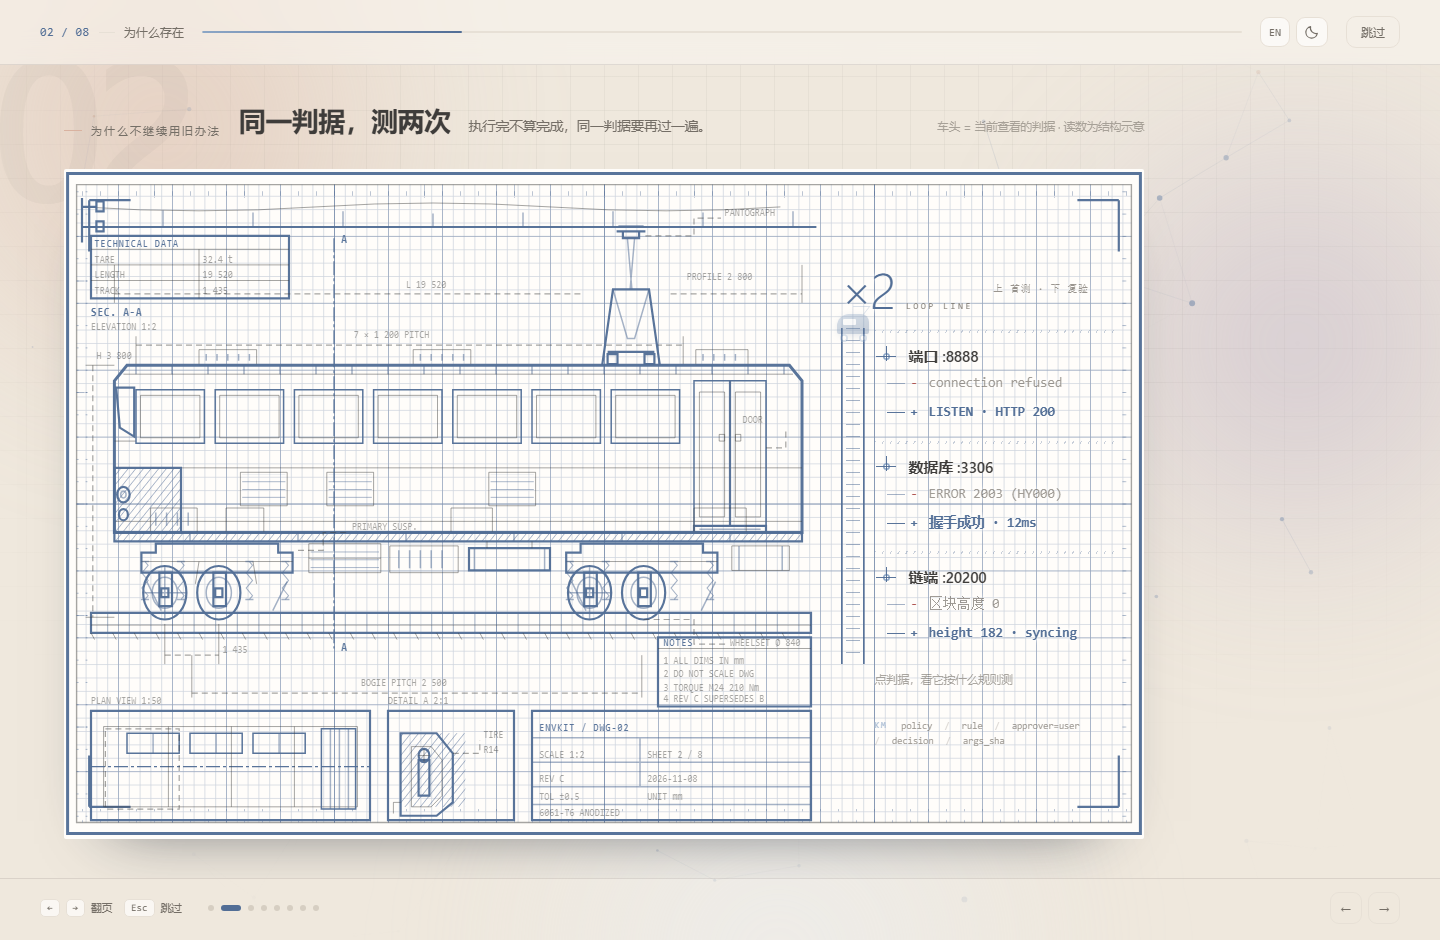
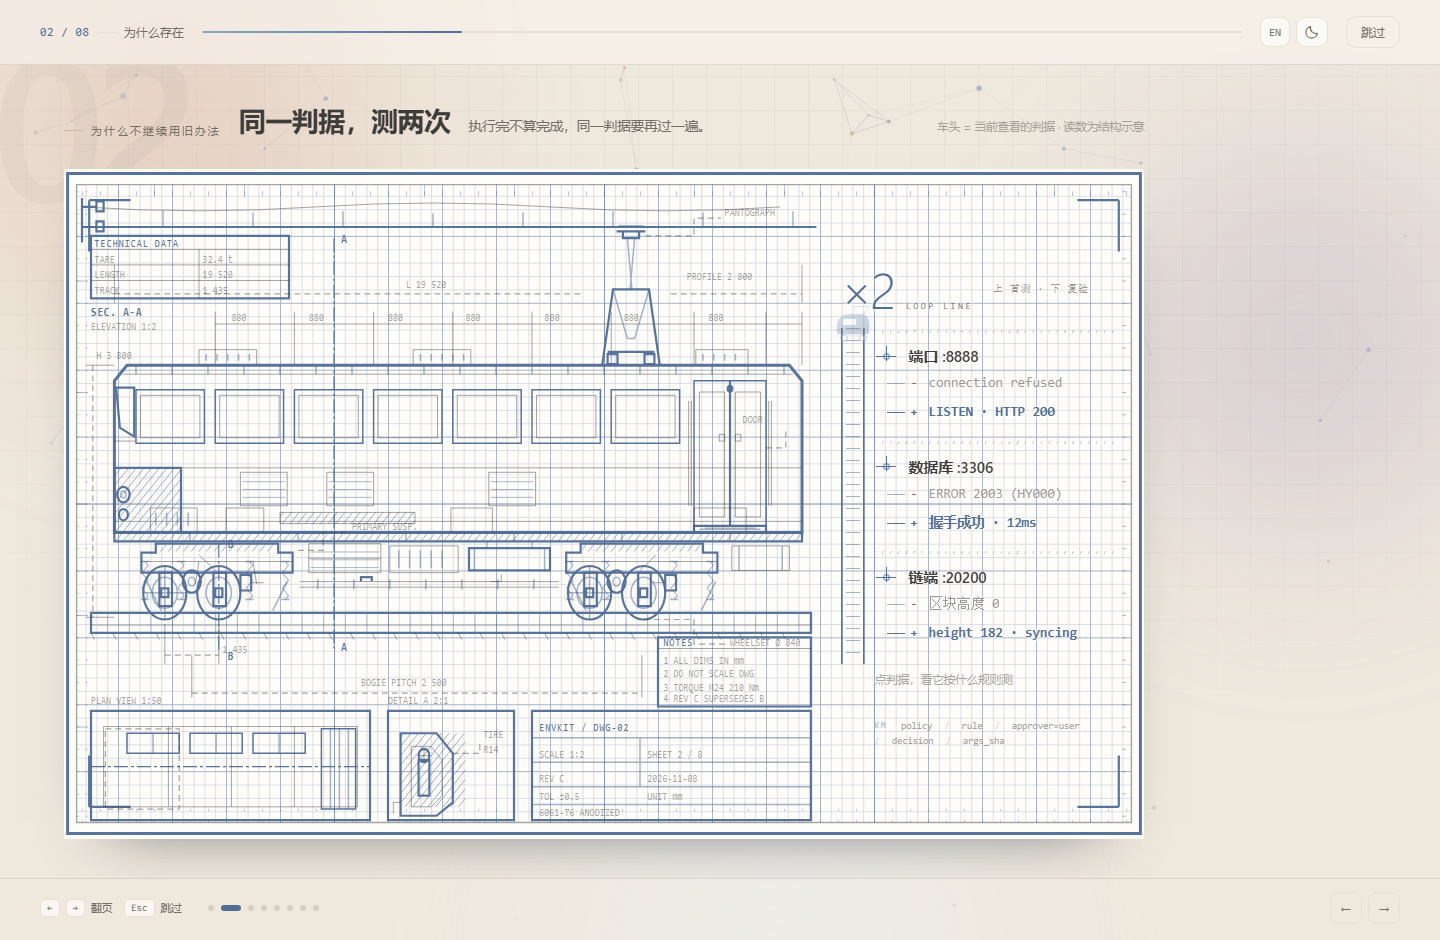
feat(onboard): 02 屏加细节层，并让图纸在进屏时被"画"出来
- 细节层：连续标注链 8×880（刻度一路拉到屋面，不悬空）、客室门双侧扶手/门灯/
  门槛踏面、裙板铸铁剖面、车下制动主管与电缆槽（配管卡、三通）、转向架齿轮箱/
  制动夹钳/牵引拉杆/架体断面、新增 B-B 剖切链线。
- 删掉旧的 7x1200 PITCH 尺寸线：它和新增链条的 880 是同一张图上的两个口径，
  自相矛盾。图纸上的数字要么不写，写就必须互相对得上。
- 描线动画：WAAPI 逐条驱动，实线按 getTotalLength 描边、时长 clamp(len*3,150,900)，
  虚线/链线/pattern 填充/<use>/文字只淡入；delay 直接取 SVG 书写顺序（图框→网格→
  接触网→车体→转向架→钢轨→尺寸→标注），读完就是"先打框、再上主体、最后标注"。
  画完 onfinish 里 cancel() 回到 CSS 原样式，不留内联残留；REDUCED 直接跳过；
  每次进 02 屏重播（挂在 onSlide，不放只跑一次的 initDemo）。
- 不用 CSS 类方案：撤类瞬间 dashoffset 回初始值，整条线会闪一下消失。
- 新增两条门禁：detail-bp-ink-running（进屏时 SVG 上挂着 >20 条动画）、
  detail-bp-ink-settled（3.2s 后无残留动画、无元素卡在 opacity 0）。
  变异验证：去掉 bpDraw 调用 → anims=0 必红；复原 → 162/162 全绿。

契约未动：RC_CRIT / renderCrit() / rcDrive() 一行没改，i18n 缺口 0。
不发行，版本仍 3.8.0。

diff --git a/web/index.html b/web/index.html
@@ -3860,10 +3860,16 @@
               <text class="bp-t" x="380" y="107">L 19 520</text>
               <text class="bp-t" x="692" y="100">PROFILE 2 800</text>
 
-              <!-- 窗距尺寸 -->
-              <path class="bp-m" d="M80 150V176M688 150V176"/>
-              <path class="bp-d" marker-start="url(#bpAr)" marker-end="url(#bpAr)" d="M80 158H688"/>
-              <text class="bp-t" x="322" y="152">7 &#215; 1 200 PITCH</text>
+              <!-- 连续标注链：每 880 一段，与窗位/门袋对齐 -->
+              <path class="bp-m" d="M168 128V176M256 128V176M344 128V176M432 128V176M520 128V176M608 128V176M700 128V176M780 128V176M820 128V176"/>
+              <path class="bp-m" d="M168 139H820"/>
+              <text class="bp-t" x="186" y="136">880</text>
+              <text class="bp-t" x="272" y="136">880</text>
+              <text class="bp-t" x="360" y="136">880</text>
+              <text class="bp-t" x="446" y="136">880</text>
+              <text class="bp-t" x="534" y="136">880</text>
+              <text class="bp-t" x="622" y="136">880</text>
+              <text class="bp-t" x="716" y="136">880</text>
 
               <!-- 受电弓 -->
               <path class="bp-b" d="M598 176L610 108H650L662 176"/>
@@ -3925,6 +3931,10 @@
               <rect class="bp-b" x="700" y="320" width="80" height="6"/>
               <path d="M706 323H774"/>
 
+              <path class="bp-m" d="M694 208V302M697 208V302M783 208V302M786 208V302"/>
+              <circle class="bp-b" cx="740" cy="197" r="2.5"/>
+              <path class="bp-m" d="M712 322H768"/>
+
               <!-- 下部裙板 / 通风百叶 -->
               <rect class="bp-m" x="196" y="272" width="52" height="30"/>
               <rect class="bp-fill" x="198" y="274" width="48" height="26" fill="url(#bpLv)"/>
@@ -3939,6 +3949,9 @@
               <path d="M102 308V320M114 308V320M126 308V320M138 308V320"/>
               <rect class="bp-fill" x="56" y="268" width="74" height="58" fill="url(#bpHz)"/>
               <path class="bp-b" d="M56 268H130V326H56Z"/>
+
+              <rect class="bp-fill" x="240" y="308" width="150" height="10" fill="url(#bpHz)"/>
+              <path class="bp-m" d="M240 308H390V318H240Z"/>
 
               <!-- 枕梁 / 底架 -->
               <path class="bp-b" d="M56 326H820V334H56Z"/>
@@ -3957,10 +3970,26 @@
               <rect class="bp-m" x="742" y="338" width="64" height="22"/>
               <path d="M750 338V360M798 338V360"/>
 
+              <path class="bp-m" d="M262 370H550M262 375H550"/>
+              <path d="M282 368V377M322 368V377M362 368V377M402 368V377M442 368V377M482 368V377M522 368V377"/>
+              <path class="bp-b" d="M330 370V366H342V370"/>
+              <path class="bp-m" d="M474 370H486V364"/>
+
               <!-- 转向架架体 -->
               <path class="bp-b" d="M86 362V344H102V336H238V344H254V362Z"/>
               <path class="bp-b" d="M558 362V344H574V336H710V344H726V362Z"/>
               <path class="bp-m" d="M86 352H254M558 352H726"/>
+
+              <circle class="bp-b" cx="142" cy="370" r="10"/>
+              <circle cx="142" cy="370" r="4"/>
+              <circle class="bp-b" cx="614" cy="370" r="10"/>
+              <circle cx="614" cy="370" r="4"/>
+              <path class="bp-b" d="M196 364H208V378H196Z"/>
+              <path class="bp-b" d="M668 364H680V378H668Z"/>
+              <path class="bp-m" d="M208 371H222M668 371H654"/>
+              <path class="bp-m" d="M168 360L150 346M640 360L658 346"/>
+              <rect class="bp-fill" x="104" y="337" width="130" height="6" fill="url(#bpHz)"/>
+              <rect class="bp-fill" x="576" y="337" width="130" height="6" fill="url(#bpHz)"/>
 
               <!-- 一系悬挂 -->
               <use href="#bpSpring" transform="translate(90,352) scale(.5,.85)"/>
@@ -4006,6 +4035,12 @@
               <path class="bp-ar" d="M294 424L300 434L306 424Z"/>
               <text class="bp-t bp-th" x="308" y="66">A</text>
               <text class="bp-t bp-th" x="308" y="432">A</text>
+
+              <path class="bp-cl" d="M172 336V434"/>
+              <path class="bp-ar" d="M166 340L172 330L178 340Z"/>
+              <path class="bp-ar" d="M166 430L172 440L178 430Z"/>
+              <text class="bp-t bp-th" x="182" y="340">B</text>
+              <text class="bp-t bp-th" x="182" y="440">B</text>
 
               <!-- 引线标注 -->
               <path class="bp-d" d="M260 342H288V326H316"/>
@@ -15631,6 +15666,7 @@ async function ekSetSaveUpdate(recheck){
     var s = slides[i];
     setProgress();
     enterAnim(s);
+    if(i === 1) bpDraw();          /* 每次进 02 屏都把图纸重画一遍（真实逐条描线） */
     if(s) initDemo(Number(s.getAttribute('data-idx')));
     if(s) autoplay(Number(s.getAttribute('data-idx')));
   }
@@ -16097,6 +16133,54 @@ async function ekSetSaveUpdate(recheck){
       '<div class="ob-rc-ditem"><u>' + t('通过阈值') + '</u><span>' + d.pass() + '</span></div>' +
       '<div class="ob-rc-ditem"><u>' + t('来源') + '</u><span>' + d.from() + '</span></div>' +
       '</div>';
+  }
+
+  /* 02 屏：进屏时把图纸"画"一遍。实线按真实长度描边（dashoffset 从 L 到 0），
+     虚线 / 链线 / 填充 / 文字只淡入——给虚线再叠一层 dasharray 会把它的段长抹平，
+     那几类就不参与描线。顺序＝SVG 里的书写顺序（图框→网格→接触网→车体→
+     转向架→钢轨→尺寸→标注），所以看起来就是"先打框、再上主体、最后标注"。
+     画完 cancel() 让元素回到 CSS 原样式，不留内联残留；不报完成、不改任何状态。 */
+  var bpAnims = [];
+  function bpDraw(){
+    var svg = q('#ob-recheck .ob-rc-sheet');
+    if(!svg || !svg.children) return;
+    bpAnims.forEach(function(a){ try{ a.cancel(); }catch(e){} });
+    bpAnims = [];
+    if(REDUCED) return;
+    var t0 = 0;
+    Array.prototype.forEach.call(svg.children, function(el){
+      var tag = el.tagName;
+      if(tag === 'defs') return;
+      if(!/^(path|rect|circle|line|polyline|text|use)$/.test(tag)) return;
+      var cs = window.getComputedStyle(el);
+      var delay = t0;
+      var isText = tag === 'text';
+      t0 += isText ? 2 : 6;
+      if(isText){
+        bpAnims.push(el.animate([{ opacity: 0 }, { opacity: 1 }],
+          { duration: 300, delay: delay + 620, easing: 'linear', fill: 'backwards' }));
+        return;
+      }
+      /* 实线才描边：虚线（.bp-d/.bp-cl）、pattern 填充块、<use> 弹簧组都只淡入 */
+      var solid = cs.strokeDasharray === 'none' && cs.stroke !== 'none' &&
+        !el.getAttribute('fill') && tag !== 'use';
+      var len = 0;
+      if(solid){
+        try{ len = el.getTotalLength ? el.getTotalLength() : 0; }catch(e){ len = 0; }
+      }
+      if(!(len > 0)){
+        bpAnims.push(el.animate([{ opacity: 0 }, { opacity: 1 }],
+          { duration: 260, delay: delay, easing: 'linear', fill: 'backwards' }));
+        return;
+      }
+      var a = el.animate(
+        [{ strokeDasharray: len + ' ' + len, strokeDashoffset: len },
+         { strokeDasharray: len + ' ' + len, strokeDashoffset: 0 }],
+        { duration: Math.max(150, Math.min(900, len * 3)), delay: delay,
+          easing: 'linear', fill: 'backwards' });
+      a.onfinish = function(){ try{ a.cancel(); }catch(e){} };
+      bpAnims.push(a);
+    });
   }
 
   /* ---------- Swiper ---------- */

diff --git a/web/src/index.tpl.html b/web/src/index.tpl.html
@@ -1603,10 +1603,16 @@
               <text class="bp-t" x="380" y="107">L 19 520</text>
               <text class="bp-t" x="692" y="100">PROFILE 2 800</text>
 
-              <!-- 窗距尺寸 -->
-              <path class="bp-m" d="M80 150V176M688 150V176"/>
-              <path class="bp-d" marker-start="url(#bpAr)" marker-end="url(#bpAr)" d="M80 158H688"/>
-              <text class="bp-t" x="322" y="152">7 &#215; 1 200 PITCH</text>
+              <!-- 连续标注链：每 880 一段，与窗位/门袋对齐 -->
+              <path class="bp-m" d="M168 128V176M256 128V176M344 128V176M432 128V176M520 128V176M608 128V176M700 128V176M780 128V176M820 128V176"/>
+              <path class="bp-m" d="M168 139H820"/>
+              <text class="bp-t" x="186" y="136">880</text>
+              <text class="bp-t" x="272" y="136">880</text>
+              <text class="bp-t" x="360" y="136">880</text>
+              <text class="bp-t" x="446" y="136">880</text>
+              <text class="bp-t" x="534" y="136">880</text>
+              <text class="bp-t" x="622" y="136">880</text>
+              <text class="bp-t" x="716" y="136">880</text>
 
               <!-- 受电弓 -->
               <path class="bp-b" d="M598 176L610 108H650L662 176"/>
@@ -1668,6 +1674,10 @@
               <rect class="bp-b" x="700" y="320" width="80" height="6"/>
               <path d="M706 323H774"/>
 
+              <path class="bp-m" d="M694 208V302M697 208V302M783 208V302M786 208V302"/>
+              <circle class="bp-b" cx="740" cy="197" r="2.5"/>
+              <path class="bp-m" d="M712 322H768"/>
+
               <!-- 下部裙板 / 通风百叶 -->
               <rect class="bp-m" x="196" y="272" width="52" height="30"/>
               <rect class="bp-fill" x="198" y="274" width="48" height="26" fill="url(#bpLv)"/>
@@ -1682,6 +1692,9 @@
               <path d="M102 308V320M114 308V320M126 308V320M138 308V320"/>
               <rect class="bp-fill" x="56" y="268" width="74" height="58" fill="url(#bpHz)"/>
               <path class="bp-b" d="M56 268H130V326H56Z"/>
+
+              <rect class="bp-fill" x="240" y="308" width="150" height="10" fill="url(#bpHz)"/>
+              <path class="bp-m" d="M240 308H390V318H240Z"/>
 
               <!-- 枕梁 / 底架 -->
               <path class="bp-b" d="M56 326H820V334H56Z"/>
@@ -1700,10 +1713,26 @@
               <rect class="bp-m" x="742" y="338" width="64" height="22"/>
               <path d="M750 338V360M798 338V360"/>
 
+              <path class="bp-m" d="M262 370H550M262 375H550"/>
+              <path d="M282 368V377M322 368V377M362 368V377M402 368V377M442 368V377M482 368V377M522 368V377"/>
+              <path class="bp-b" d="M330 370V366H342V370"/>
+              <path class="bp-m" d="M474 370H486V364"/>
+
               <!-- 转向架架体 -->
               <path class="bp-b" d="M86 362V344H102V336H238V344H254V362Z"/>
               <path class="bp-b" d="M558 362V344H574V336H710V344H726V362Z"/>
               <path class="bp-m" d="M86 352H254M558 352H726"/>
+
+              <circle class="bp-b" cx="142" cy="370" r="10"/>
+              <circle cx="142" cy="370" r="4"/>
+              <circle class="bp-b" cx="614" cy="370" r="10"/>
+              <circle cx="614" cy="370" r="4"/>
+              <path class="bp-b" d="M196 364H208V378H196Z"/>
+              <path class="bp-b" d="M668 364H680V378H668Z"/>
+              <path class="bp-m" d="M208 371H222M668 371H654"/>
+              <path class="bp-m" d="M168 360L150 346M640 360L658 346"/>
+              <rect class="bp-fill" x="104" y="337" width="130" height="6" fill="url(#bpHz)"/>
+              <rect class="bp-fill" x="576" y="337" width="130" height="6" fill="url(#bpHz)"/>
 
               <!-- 一系悬挂 -->
               <use href="#bpSpring" transform="translate(90,352) scale(.5,.85)"/>
@@ -1749,6 +1778,12 @@
               <path class="bp-ar" d="M294 424L300 434L306 424Z"/>
               <text class="bp-t bp-th" x="308" y="66">A</text>
               <text class="bp-t bp-th" x="308" y="432">A</text>
+
+              <path class="bp-cl" d="M172 336V434"/>
+              <path class="bp-ar" d="M166 340L172 330L178 340Z"/>
+              <path class="bp-ar" d="M166 430L172 440L178 430Z"/>
+              <text class="bp-t bp-th" x="182" y="340">B</text>
+              <text class="bp-t bp-th" x="182" y="440">B</text>
 
               <!-- 引线标注 -->
               <path class="bp-d" d="M260 342H288V326H316"/>

diff --git a/web/src/js/90-onboard.js b/web/src/js/90-onboard.js
@@ -508,6 +508,7 @@
     var s = slides[i];
     setProgress();
     enterAnim(s);
+    if(i === 1) bpDraw();          /* 每次进 02 屏都把图纸重画一遍（真实逐条描线） */
     if(s) initDemo(Number(s.getAttribute('data-idx')));
     if(s) autoplay(Number(s.getAttribute('data-idx')));
   }
@@ -974,6 +975,54 @@
       '<div class="ob-rc-ditem"><u>' + t('通过阈值') + '</u><span>' + d.pass() + '</span></div>' +
       '<div class="ob-rc-ditem"><u>' + t('来源') + '</u><span>' + d.from() + '</span></div>' +
       '</div>';
+  }
+
+  /* 02 屏：进屏时把图纸"画"一遍。实线按真实长度描边（dashoffset 从 L 到 0），
+     虚线 / 链线 / 填充 / 文字只淡入——给虚线再叠一层 dasharray 会把它的段长抹平，
+     那几类就不参与描线。顺序＝SVG 里的书写顺序（图框→网格→接触网→车体→
+     转向架→钢轨→尺寸→标注），所以看起来就是"先打框、再上主体、最后标注"。
+     画完 cancel() 让元素回到 CSS 原样式，不留内联残留；不报完成、不改任何状态。 */
+  var bpAnims = [];
+  function bpDraw(){
+    var svg = q('#ob-recheck .ob-rc-sheet');
+    if(!svg || !svg.children) return;
+    bpAnims.forEach(function(a){ try{ a.cancel(); }catch(e){} });
+    bpAnims = [];
+    if(REDUCED) return;
+    var t0 = 0;
+    Array.prototype.forEach.call(svg.children, function(el){
+      var tag = el.tagName;
+      if(tag === 'defs') return;
+      if(!/^(path|rect|circle|line|polyline|text|use)$/.test(tag)) return;
+      var cs = window.getComputedStyle(el);
+      var delay = t0;
+      var isText = tag === 'text';
+      t0 += isText ? 2 : 6;
+      if(isText){
+        bpAnims.push(el.animate([{ opacity: 0 }, { opacity: 1 }],
+          { duration: 300, delay: delay + 620, easing: 'linear', fill: 'backwards' }));
+        return;
+      }
+      /* 实线才描边：虚线（.bp-d/.bp-cl）、pattern 填充块、<use> 弹簧组都只淡入 */
+      var solid = cs.strokeDasharray === 'none' && cs.stroke !== 'none' &&
+        !el.getAttribute('fill') && tag !== 'use';
+      var len = 0;
+      if(solid){
+        try{ len = el.getTotalLength ? el.getTotalLength() : 0; }catch(e){ len = 0; }
+      }
+      if(!(len > 0)){
+        bpAnims.push(el.animate([{ opacity: 0 }, { opacity: 1 }],
+          { duration: 260, delay: delay, easing: 'linear', fill: 'backwards' }));
+        return;
+      }
+      var a = el.animate(
+        [{ strokeDasharray: len + ' ' + len, strokeDashoffset: len },
+         { strokeDasharray: len + ' ' + len, strokeDashoffset: 0 }],
+        { duration: Math.max(150, Math.min(900, len * 3)), delay: delay,
+          easing: 'linear', fill: 'backwards' });
+      a.onfinish = function(){ try{ a.cancel(); }catch(e){} };
+      bpAnims.push(a);
+    });
   }
 
   /* ---------- Swiper ---------- */

diff --git a/tools/cdp_onboard_test.js b/tools/cdp_onboard_test.js
@@ -330,6 +330,40 @@ function seed() {
     check('detail-recheck-shape', RCV_SHAPE.rows === 3 && RCV_SHAPE.crit === 3 && RCV_SHAPE.code === 6 &&
       RCV_SHAPE.audit === 5 && RCV_SHAPE.stamp === 1 && RCV_SHAPE.empty === 1 && RCV_SHAPE.axis === true, rcShape);
 
+    /* 图纸描线动画两条判据：
+       ① 进屏时必须真的在画（SVG 子元素上挂着 >20 条动画），否则就是"看起来有动画其实没跑"；
+       ② 画完必须自己收干净——onfinish 不 cancel 会把 dasharray 留在元素上，虚线被抹成实线；
+          卡在 backwards 填充则元素永久透明，比不画更糟。 */
+    const rcInkLive = await evalJS(`(function(){
+      var svg=document.querySelector('#ob-recheck .ob-rc-sheet'); if(!svg) return -1;
+      var list=document.getAnimations?document.getAnimations():[], n=0;
+      for(var i=0;i<list.length;i++){
+        var t=list[i].effect&&list[i].effect.target;
+        if(t&&t.ownerSVGElement===svg) n++;
+      }
+      return n;
+    })()`);
+    check('detail-bp-ink-running', rcInkLive > 20, 'anims=' + rcInkLive);
+
+    await sleep(3200);
+    const rcInkSettled = await evalJS(`(function(){
+      var svg=document.querySelector('#ob-recheck .ob-rc-sheet'); if(!svg) return 'null';
+      var list=document.getAnimations?document.getAnimations():[], left=0;
+      for(var i=0;i<list.length;i++){
+        var t=list[i].effect&&list[i].effect.target;
+        if(t&&t.ownerSVGElement===svg) left++;
+      }
+      var kids=svg.children, hidden=0;
+      for(var k=0;k<kids.length;k++){
+        var el=kids[k]; if(el.tagName==='defs') continue;
+        /* 只抓「卡在 0」：网格层本来就故意 .55/.9，用 <0.99 判会把设计值误判成缺陷 */
+        if(parseFloat(getComputedStyle(el).opacity)<0.05) hidden++;
+      }
+      return JSON.stringify({left:left,hidden:hidden});
+    })()`);
+    let RC_INK = {}; try { RC_INK = JSON.parse(rcInkSettled || '{}'); } catch (e) {}
+    check('detail-bp-ink-settled', RC_INK.left === 0 && RC_INK.hidden === 0, rcInkSettled);
+
     // 旧造型必须真删干净；进屏也不允许自动展开/自动播（v3.8 删假进度那条红线）
     const rcOldShape = await evalJS(`JSON.stringify({
       win: document.querySelectorAll('.ob-win-card').length,
